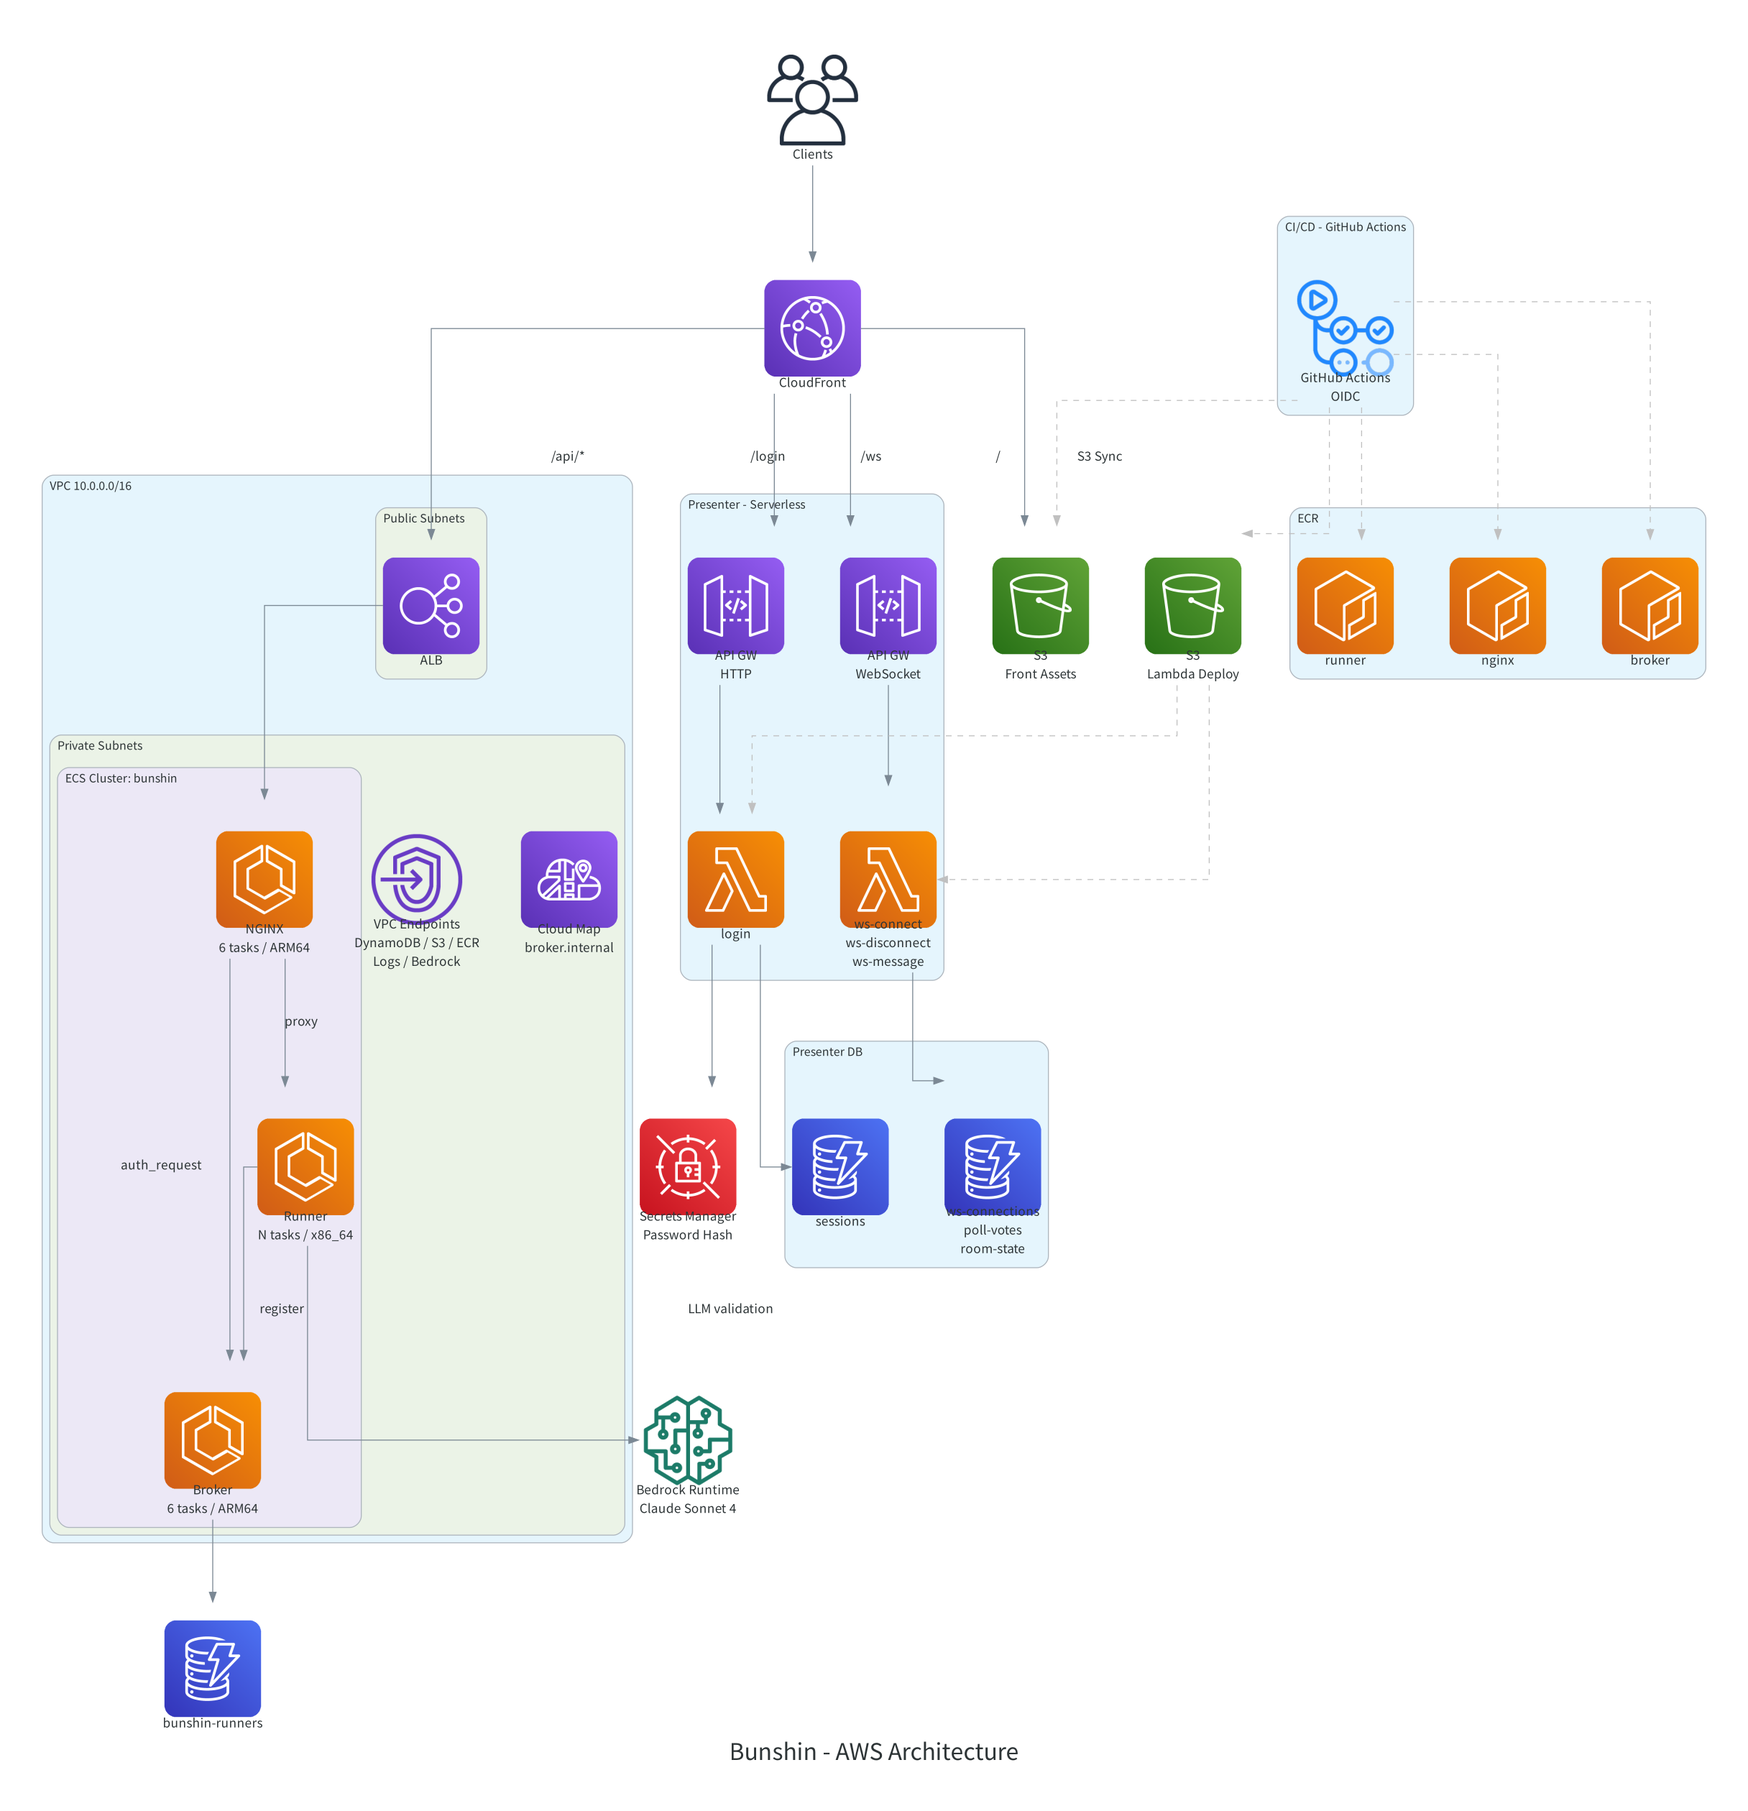
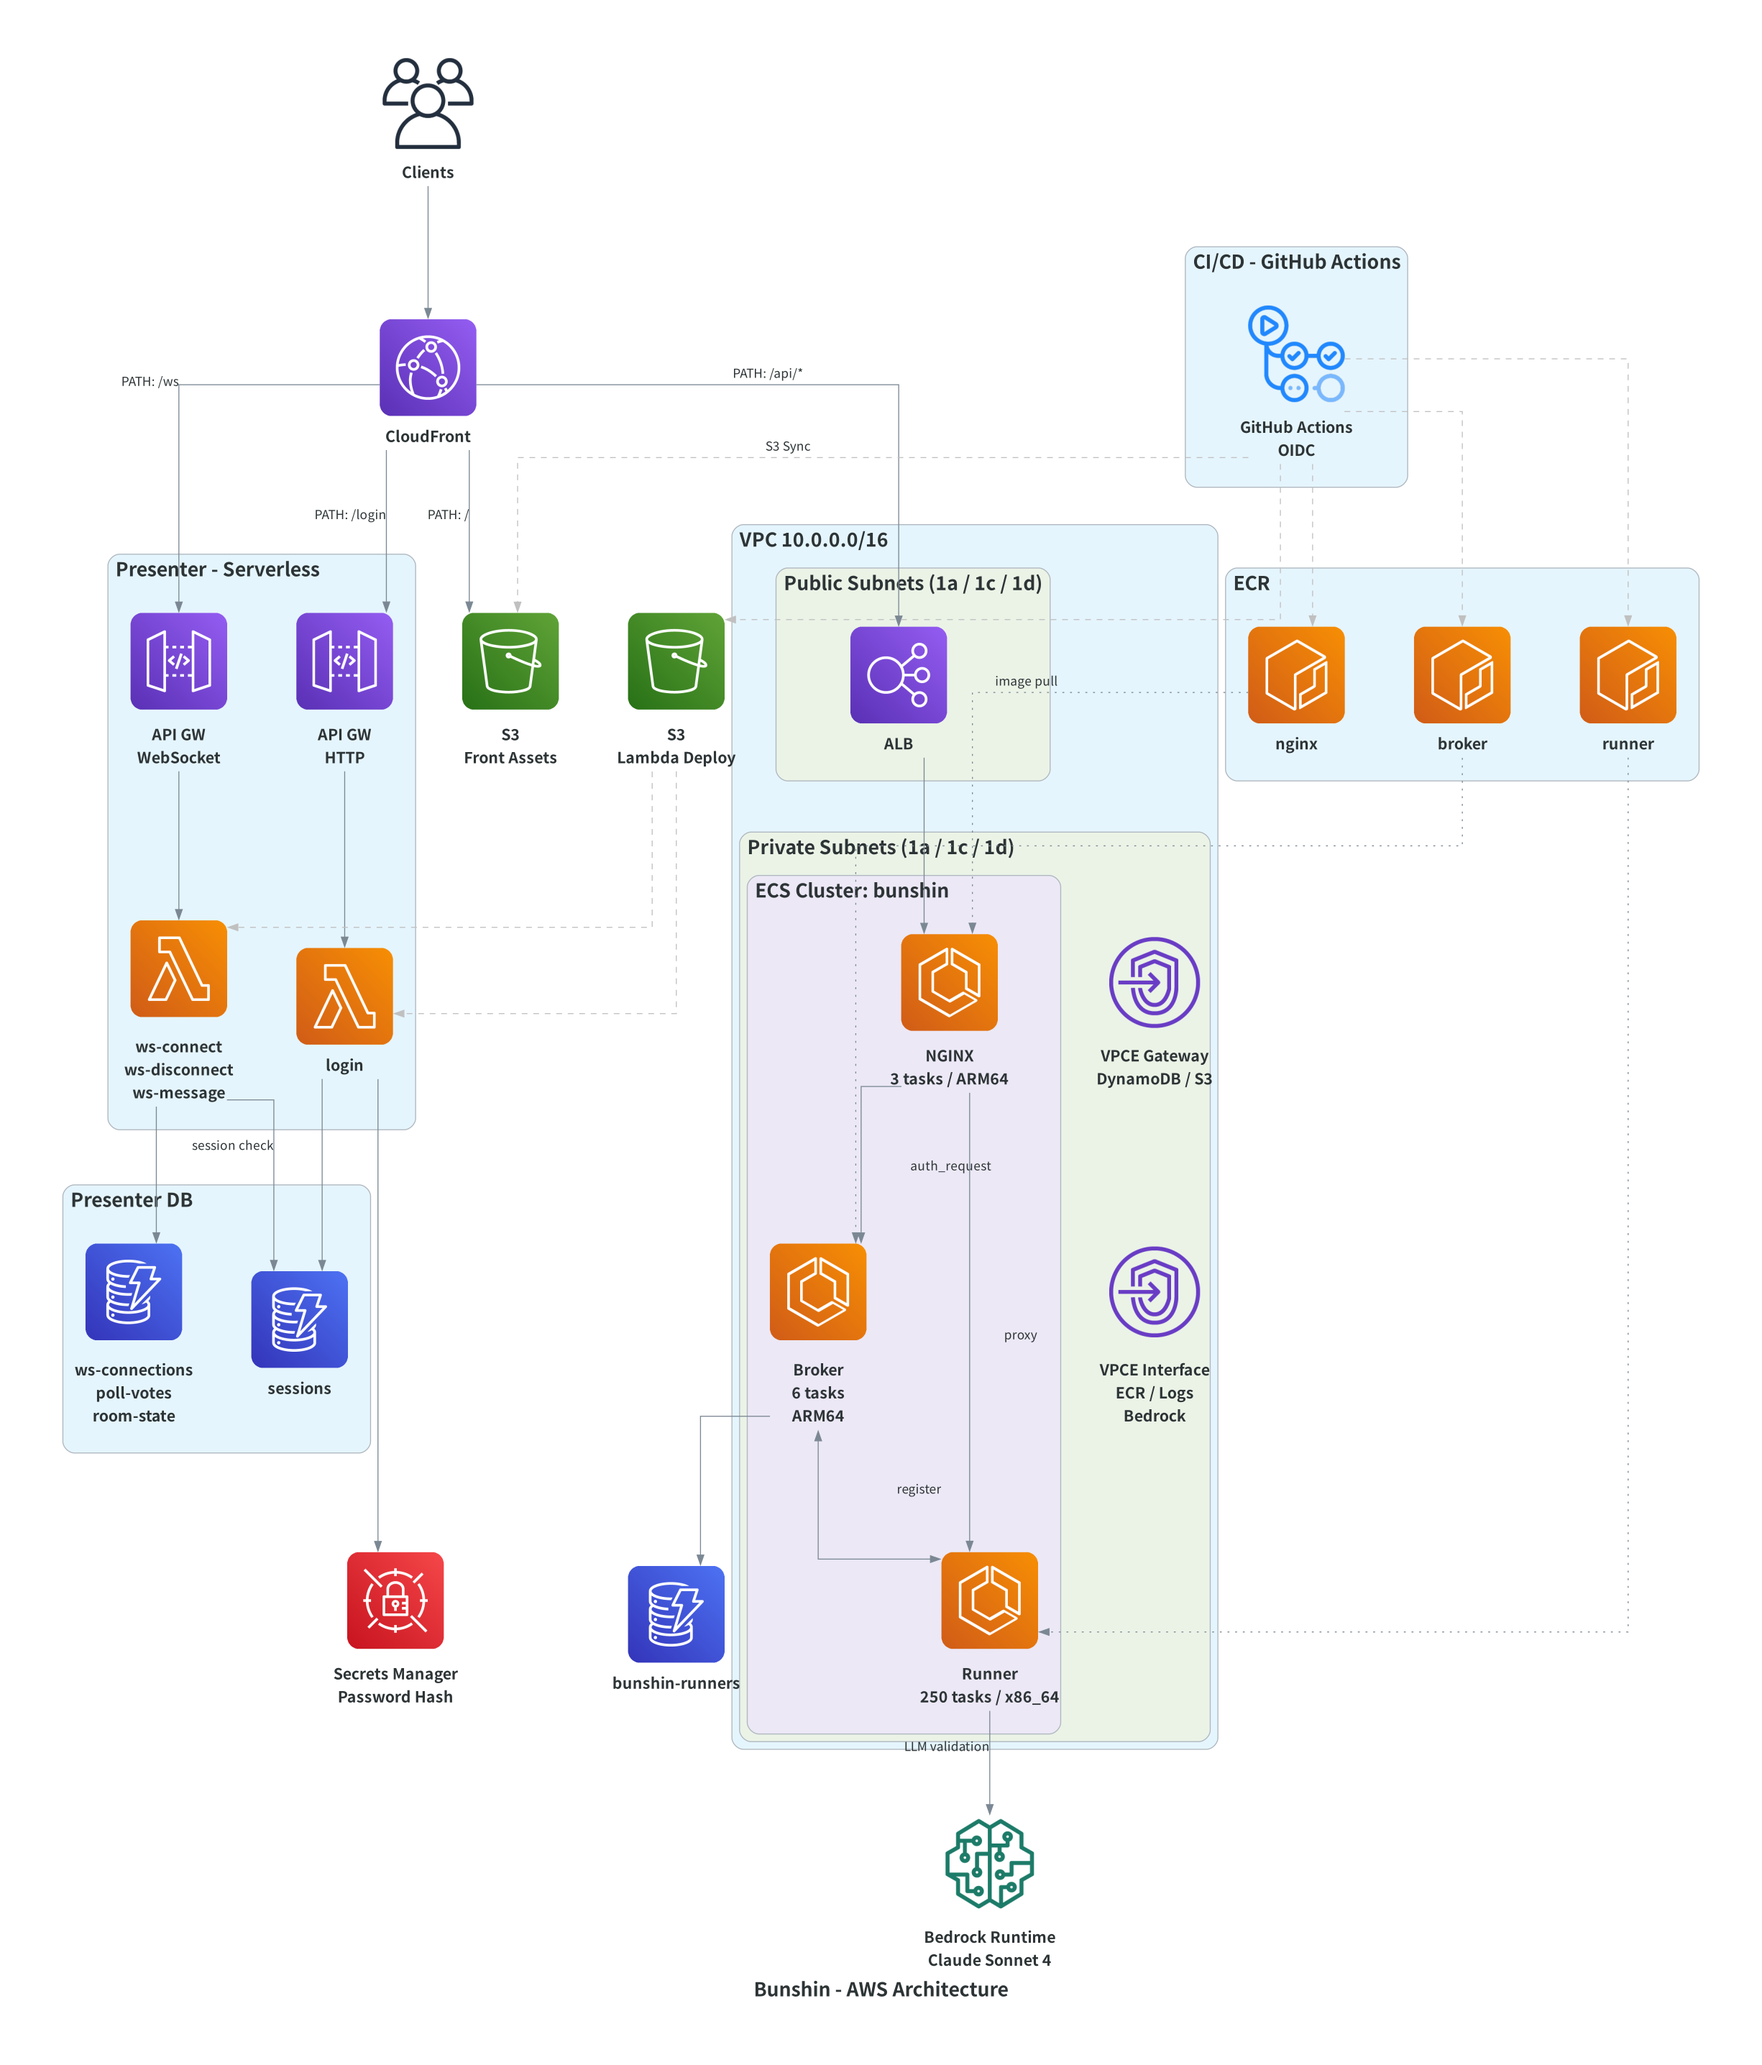
Address PR review: improve diagram with VPCE split, ECR-ECS links, Python 3.14, and styling

diff --git a/docs/architecture_diagram.py b/docs/architecture_diagram.py
@@ -4,19 +4,34 @@ from diagrams import Cluster, Diagram, Edge
 from diagrams.aws.compute import ECR, ECS, Lambda
 from diagrams.aws.database import Dynamodb
 from diagrams.aws.ml import SagemakerModel
-from diagrams.aws.network import APIGateway, CloudFront, CloudMap, ELB, Endpoint
+from diagrams.aws.network import APIGateway, CloudFront, ELB, Endpoint
 from diagrams.aws.security import SecretsManager
 from diagrams.aws.storage import S3
 from diagrams.onprem.ci import GithubActions
 from diagrams.onprem.client import Users
 
+CLUSTER_FONT = {"fontsize": "20", "fontname": "Sans-Serif Bold"}
+
 GRAPH_ATTR = {
-    "fontsize": "24",
+    "fontsize": "32",
     "bgcolor": "white",
-    "pad": "0.5",
-    "nodesep": "0.8",
-    "ranksep": "1.2",
+    "pad": "0.8",
+    "nodesep": "1.0",
+    "ranksep": "1.5",
     "compound": "true",
+    **CLUSTER_FONT,
+}
+
+NODE_ATTR = {
+    "fontsize": "16",
+    "fontname": "Sans-Serif Bold",
+    "labelloc": "b",
+    "imagepos": "tc",
+}
+
+EDGE_ATTR = {
+    "fontsize": "16",
+    "fontname": "Sans-Serif Bold",
 }
 
 with Diagram(
@@ -26,6 +41,8 @@ with Diagram(
     outformat="png",
     direction="TB",
     graph_attr=GRAPH_ATTR,
+    node_attr=NODE_ATTR,
+    edge_attr=EDGE_ATTR,
 ):
     users = Users("Clients")
     cf = CloudFront("CloudFront")
@@ -33,22 +50,27 @@ with Diagram(
     users >> cf
 
     # --- Runtime layer ---
-    with Cluster("VPC 10.0.0.0/16"):
-        with Cluster("Public Subnets"):
+    with Cluster("VPC 10.0.0.0/16", graph_attr={**CLUSTER_FONT, "margin": "8"}):
+        with Cluster("Public Subnets (1a / 1c / 1d)",
+                     graph_attr={**CLUSTER_FONT, "margin": "24"}):
             alb = ELB("ALB")
 
-        with Cluster("Private Subnets"):
-            with Cluster("ECS Cluster: bunshin"):
-                nginx = ECS("NGINX\n6 tasks / ARM64")
-                broker = ECS("Broker\n6 tasks / ARM64")
-                runner = ECS("Runner\nN tasks / x86_64")
+        with Cluster("Private Subnets (1a / 1c / 1d)",
+                     graph_attr={**CLUSTER_FONT, "margin": "8"}):
+            with Cluster("ECS Cluster: bunshin",
+                         graph_attr={**CLUSTER_FONT, "margin": "24"}):
+                nginx = ECS("NGINX\n3 tasks / ARM64")
+                broker = ECS("Broker\n6 tasks\nARM64")
+                runner = ECS("Runner\n250 tasks / x86_64")
 
-            vpce = Endpoint("VPC Endpoints\nDynamoDB / S3 / ECR\nLogs / Bedrock")
-            cloud_map = CloudMap("Cloud Map\nbroker.internal")
+            vpce_gw = Endpoint("VPCE Gateway\nDynamoDB / S3")
+            vpce_if = Endpoint("VPCE Interface\nECR / Logs\nBedrock")
+            vpce_gw >> Edge(style="invis") >> vpce_if
+
 
     s3_front = S3("S3\nFront Assets")
 
-    with Cluster("Presenter - Serverless"):
+    with Cluster("Presenter - Serverless", graph_attr={**CLUSTER_FONT, "margin": "24"}):
         apigw_ws = APIGateway("API GW\nWebSocket")
         apigw_http = APIGateway("API GW\nHTTP")
         lmb_ws = Lambda("ws-connect\nws-disconnect\nws-message")
@@ -58,50 +80,57 @@ with Diagram(
         apigw_http >> lmb_login
 
     # CloudFront routing
-    cf >> Edge(label="/") >> s3_front
-    cf >> Edge(label="/api/*") >> alb
-    cf >> Edge(label="/ws") >> apigw_ws
-    cf >> Edge(label="/login") >> apigw_http
+    cf >> Edge(xlabel="PATH: /") >> s3_front
+    cf >> Edge(xlabel="PATH: /api/*") >> alb
+    cf >> Edge(xlabel="PATH: /ws") >> apigw_ws
+    cf >> Edge(xlabel="PATH: /login") >> apigw_http
 
     # ECS data flow
     alb >> nginx
-    nginx >> Edge(label="auth_request") >> broker
     nginx >> Edge(label="proxy") >> runner
-    runner >> Edge(label="register") >> broker
+    nginx >> Edge(label="auth_request") >> broker
+    broker >> Edge(label="register") << runner
 
     # --- Data stores ---
     ddb_runners = Dynamodb("bunshin-runners")
     broker >> ddb_runners
 
-    with Cluster("Presenter DB"):
+    with Cluster("Presenter DB", graph_attr={**CLUSTER_FONT, "margin": "24"}):
         ddb_ws = Dynamodb("ws-connections\npoll-votes\nroom-state")
         ddb_sessions = Dynamodb("sessions")
 
     lmb_ws >> ddb_ws
+    lmb_ws >> Edge(xlabel="session check") >> ddb_sessions
     lmb_login >> ddb_sessions
 
     secrets = SecretsManager("Secrets Manager\nPassword Hash")
     lmb_login >> secrets
+    ddb_sessions - Edge(style="invis") - secrets
 
     # Bedrock
     bedrock = SagemakerModel("Bedrock Runtime\nClaude Sonnet 4")
-    runner >> Edge(label="LLM validation") >> bedrock
+    runner >> Edge(xlabel="LLM validation") >> bedrock
 
     # --- CI/CD Deploy flow ---
-    with Cluster("CI/CD - GitHub Actions"):
+    with Cluster("CI/CD - GitHub Actions", graph_attr={**CLUSTER_FONT, "margin": "24"}):
         gh = GithubActions("GitHub Actions\nOIDC")
 
-    with Cluster("ECR"):
-        ecr_nginx = ECR("nginx")
-        ecr_broker = ECR("broker")
+    with Cluster("ECR", graph_attr={**CLUSTER_FONT, "margin": "24"}):
         ecr_runner = ECR("runner")
+        ecr_broker = ECR("broker")
+        ecr_nginx = ECR("nginx")
 
     s3_lambda = S3("S3\nLambda Deploy")
 
     gh >> Edge(style="dashed", color="gray") >> ecr_nginx
     gh >> Edge(style="dashed", color="gray") >> ecr_broker
     gh >> Edge(style="dashed", color="gray") >> ecr_runner
-    gh >> Edge(label="S3 Sync", style="dashed", color="gray") >> s3_front
+    gh >> Edge(xlabel="S3 Sync", style="dashed", color="gray") >> s3_front
     gh >> Edge(style="dashed", color="gray") >> s3_lambda
     s3_lambda >> Edge(style="dashed", color="gray") >> lmb_ws
     s3_lambda >> Edge(style="dashed", color="gray") >> lmb_login
+
+    # ECR -> ECS image pull
+    ecr_nginx >> Edge(xlabel="image pull", style="dotted") >> nginx
+    ecr_broker >> Edge(style="dotted") >> broker
+    ecr_runner >> Edge(style="dotted") >> runner
